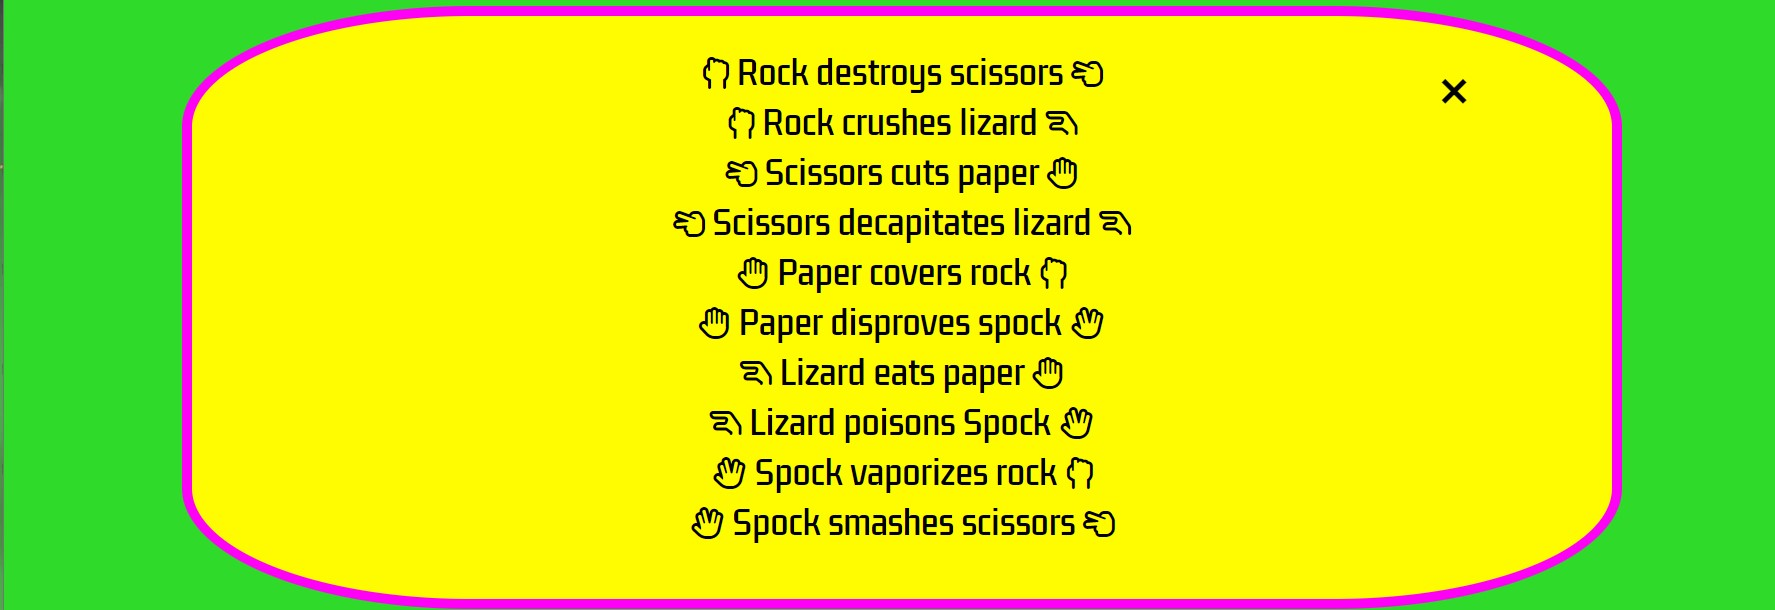
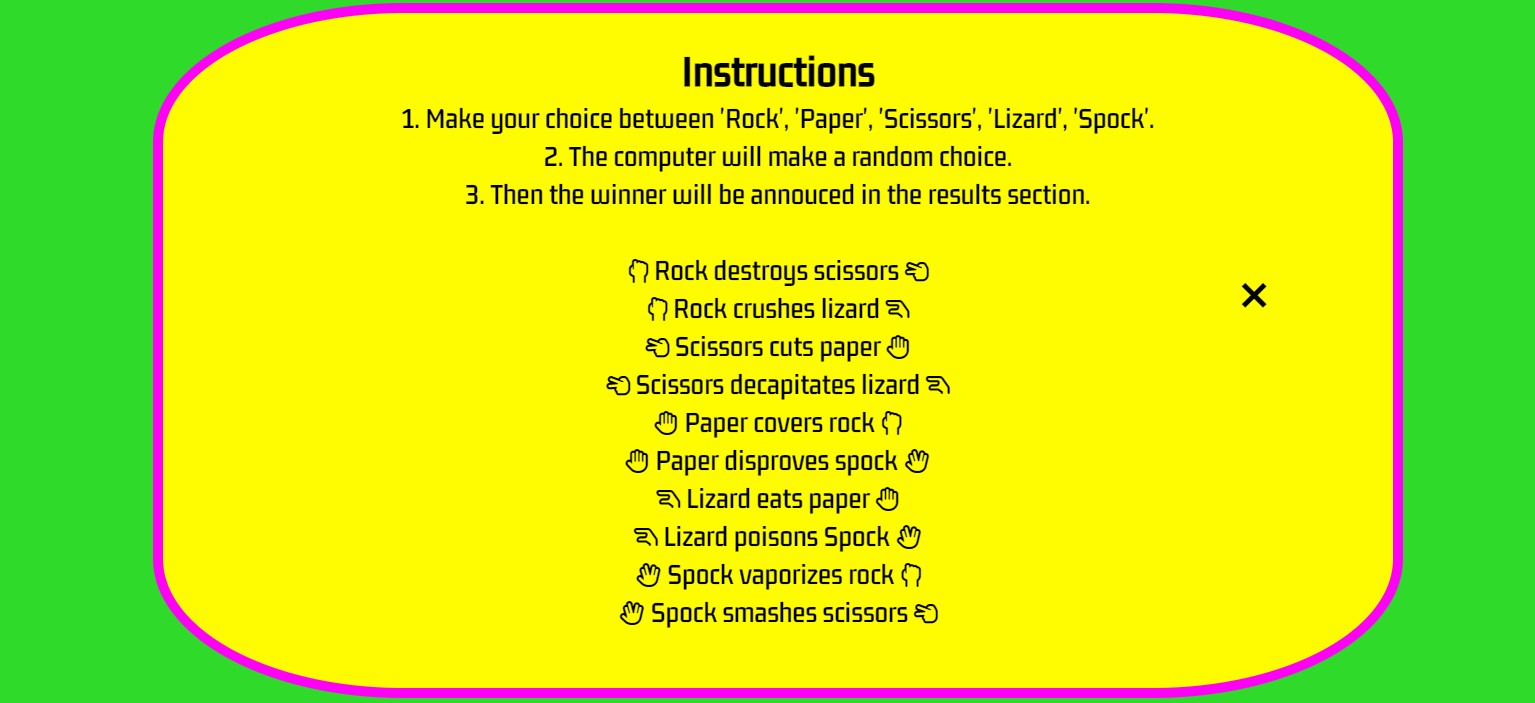
Add instructions to rules modal and update image in README

diff --git a/assets/css/style.css b/assets/css/style.css
@@ -125,14 +125,18 @@ header>p {
     left: 10%;
     top: 10%;
     width: 80%;
-    height: 60%;
+    height: 70%;
     background-color: rgb(255, 251, 0);
     border-radius: 20%;
     border: 10px solid #ff00f7;
 
     text-align: center;
     color: black;
-    font-size: 2rem;
+    font-size: 1.5rem;
+}
+
+ol>li {
+    list-style-type: none;
 }
 
 .close {
@@ -209,13 +213,13 @@ header>p {
 
 /* medium size screens */
 
-@media screen and (max-width:750px) {
+@media screen and (max-width:790px) {
     
     #rules-content {
         left: 5%;
         right: 5%;
         width: 90%;
-        height: 50vh;
+        height: 80vh;
         font-size: 1.5rem;
     }
 
@@ -252,7 +256,7 @@ header>p {
 
     #rules-content {
         font-size: 1.25rem;
-        
+        height: 70vh;
     }
 
     .close {

diff --git a/index.html b/index.html
@@ -33,6 +33,15 @@
 
         <div id="rules-content">
 
+            <h2>Instructions</h2>
+            <ol>
+                <li>1. Make your choice between 'Rock', 'Paper', 'Scissors', 'Lizard', 'Spock'.</li>
+                <li>2. The computer will make a random choice.</li>
+                <li>3. Then the winner will be annouced in the results section.</li>
+            </ol>
+
+            <br>
+
             <span class="close">&times;</span>
             <p><i class="fa-regular fa-hand-back-fist"></i> Rock destroys scissors <i class="fa-regular fa-hand-scissors"></i></p>
             <p><i class="fa-regular fa-hand-back-fist"></i> Rock crushes lizard <i class="fa-regular fa-hand-lizard"></i></p>
